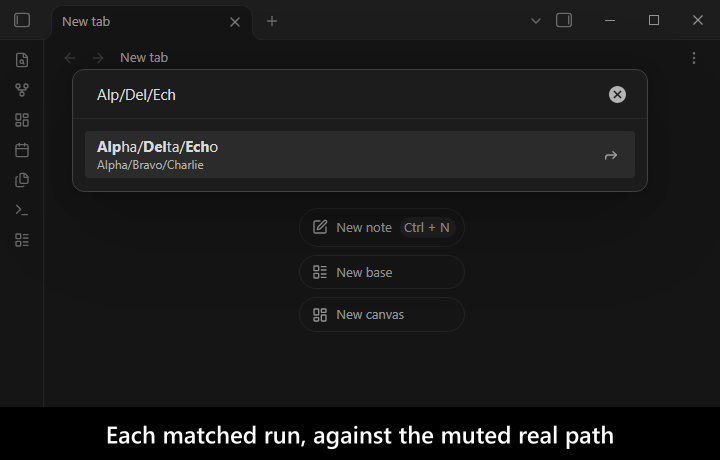
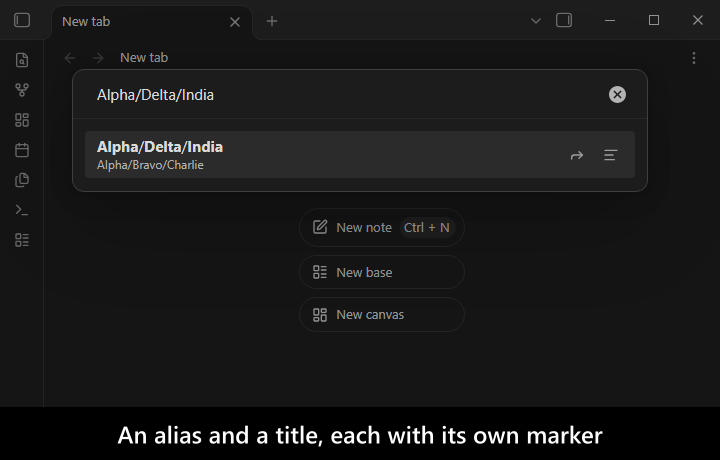
chore(screenshots): keep five desktop frames, matching the directory listing
The community directory caps each screenshot set at 5, and its listing
already dropped the highlight close-up for the alias-and-title frame.
Drop that close-up from the capture suite, renumber the last frame to 5,
and bring the README gallery and AGENTS.md in line.

diff --git a/src/screenshots.desktop-capture.integration.test.ts b/src/screenshots.desktop-capture.integration.test.ts
@@ -68,7 +68,7 @@ const MODAL_SELECTOR = '.alias-quick-switcher-modal';
 const NOTICE_SELECTOR = '.notice';
 
 /**
- * The frontmatter property frame 6 points the plugin at, and the value the staged `Charlie` carries under
+ * The frontmatter property frame 5 points the plugin at, and the value the staged `Charlie` carries under
  * it — a name the switcher can only reach while Advanced Metadata Cache's Titles module reads that property.
  */
 const TITLE_PROPERTY_NAME = 'title';
@@ -87,9 +87,9 @@ beforeAll(async () => {
 
   vault.populate({
     'Alpha/Bravo/Bravo.md': '---\naliases:\n  - Delta\n---\n\n# Bravo\n',
-    // `title` alongside the alias, exactly as the demo vault's own `Charlie` carries both — frame 6 is the
+    // `title` alongside the alias, exactly as the demo vault's own `Charlie` carries both — frame 5 is the
     // one row that needs an alias and a property at once, and no other frame is affected by it because the
-    // setting that reads a property is off until frame 6 turns it on.
+    // setting that reads a property is off until frame 5 turns it on.
     'Alpha/Bravo/Charlie.md': '---\naliases:\n  - Echo\ntitle: India\n---\n\n# Charlie\n',
     'Alpha/Bravo/Foxtrot.md': '# Foxtrot\n',
     'Alpha/Golf/Hotel.md': '# Hotel\n',
@@ -159,20 +159,9 @@ describe('desktop frames of the matched row', () => {
     await shoot(4, 'A partial path is enough', WIDTH_IN_PIXELS, HEIGHT_IN_PIXELS);
   }, TEST_TIMEOUT_IN_MILLISECONDS);
 
-  it('5 - the highlight broken into runs, close up', async () => {
-    // The hardest case for legibility, and the one a full-segment query hides: when every segment matches
-    // whole, the entire first line is highlighted and the highlight is indistinguishable from its absence.
-    // Here each segment is matched by a fragment, so highlighted and plain text sit side by side in the
-    // same word, directly above the muted second line.
-    const rows = await openSwitcher('Alp/Del/Ech');
-
-    expect(rows.length).toBeGreaterThan(0);
-    await shoot(5, 'Each matched run, against the muted real path', CLOSE_UP_WIDTH_IN_PIXELS, CLOSE_UP_HEIGHT_IN_PIXELS);
-  }, TEST_TIMEOUT_IN_MILLISECONDS);
-
-  it('6 - an alias and a frontmatter property on one row', async () => {
+  it('5 - an alias and a frontmatter property on one row', async () => {
     // The only frame that needs a setting: Advanced Metadata Cache's Titles module is off by default, which is what
-    // frames 1-5 are taken under. Turned on here and put back afterwards, because these frames share one
+    // frames 1-4 are taken under. Turned on here and put back afterwards, because these frames share one
     // Obsidian and one settings file.
     await setTitleProperties([TITLE_PROPERTY_NAME]);
 
@@ -184,9 +173,9 @@ describe('desktop frames of the matched row', () => {
       // A weak-looking assertion that is not: nothing else in the staged vault answers to `India`, so a
       // setting that failed to apply offers no row at all rather than a differently-matched one.
       expect(rows.length).toBeGreaterThan(0);
-      // Close up, like frame 5: the markers are two small glyphs at the right edge of one row, and the
-      // whole point of the frame is telling them apart.
-      await shoot(6, 'An alias and a title, each with its own marker', CLOSE_UP_WIDTH_IN_PIXELS, CLOSE_UP_HEIGHT_IN_PIXELS);
+      // Close up: the markers are two small glyphs at the right edge of one row, and the whole point of the
+      // frame is telling them apart.
+      await shoot(5, 'An alias and a title, each with its own marker', CLOSE_UP_WIDTH_IN_PIXELS, CLOSE_UP_HEIGHT_IN_PIXELS);
     } finally {
       await setTitleProperties([]);
     }

diff --git a/AGENTS.md b/AGENTS.md
@@ -64,14 +64,15 @@ The workspace convention is that all plugins share the same architecture; intent
 
 ### The screenshot capture suites
 
-`npm run capture:screenshots` drives the switcher in a real Obsidian and writes `images/screenshots/screenshot-desktop-N.png` (six frames) and `screenshot-mobile-N.png` (five), desktop leg first because both legs share one machine. They exist because the two-line row is the one thing no assertion can settle — whether it READS as an explanation — and they double as the community-store listing shots.
+`npm run capture:screenshots` drives the switcher in a real Obsidian and writes `images/screenshots/screenshot-desktop-N.png` (five frames) and `screenshot-mobile-N.png` (five), desktop leg first because both legs share one machine. They exist because the two-line row is the one thing no assertion can settle — whether it READS as an explanation — and they double as the community-store listing shots.
 
+- **Five per leg is a ceiling, not a target.** The community directory caps each set at 5, so a sixth frame cannot reach the listing and the README would show a gallery the listing does not. A new frame replaces an existing one in the same commit. That is how the close-up of the highlight broken into runs (`Alp/Del/Ech`) left the desktop leg on 2026-10-04: the listing had already swapped it for the alias-and-title frame.
 - The suites are named `*.desktop-capture.` / `*.android-capture.` so they match **none** of the standard project globs: capturing opens a window and leaves a modal on screen to photograph it, which is not something `npm run test:integration` should ever do.
 - The mobile leg runs on the **`obsidian_screenshots`** AVD, 900x1600 at density 320 — exactly the size the store asks for, so no crop or rescale. The shared `obsidian_test` AVD cannot stand in: it is 1344x2992, and resizing it at runtime recreates the activity and with it the WebView the session is attached to.
 - **`labelScreenshot` needs `sharp`**, an optional peer of `obsidian-integration-testing`. Without it every frame fails at the caption step with `Cannot find package 'sharp'` — after the capture itself succeeded, so the failure looks unrelated to what actually went wrong.
-- **A query that matches every segment whole highlights the entire first line**, which makes the highlight indistinguishable from its absence. Frame 5 uses `Alp/Del/Ech` for that reason: partial runs put highlighted and plain text side by side in the same word.
+- **A query that matches every segment whole highlights the entire first line**, which makes the highlight indistinguishable from its absence. A frame about the highlight therefore needs a partial query such as `Alp/Del/Ech`, whose runs put highlighted and plain text side by side in the same word. No frame carries one today.
 - **Both desktop suites clear every `.notice` before each shot, after waiting for the dependency gate to open.** The integration vault enables Advanced Metadata Cache after this plugin, so the gate raises its "does nothing until" notice at startup, and the first frame used to catch it about one run in two. `beforeAll` waits until the plugin's `open` command exists, which the gate registers only once it opens, so a notice removed in `shoot()` is gone for good. Measured 2026-09-25: the first shot removed exactly that notice, and every later shot found none. Keep the wait: without it, the builtin-comparison suite's first frame (the BUILT-IN switcher) proves nothing about the gate.
-- **The LAST frame of each leg is the only one taken under a non-default setting**, and it puts it back in a `finally`. Frames desktop 1-5 and mobile 1-4 are shot with Advanced Metadata Cache's Titles module off, which is what a fresh install has; the final frame switches it on, reading `title`, so one row carries an alias marker and a property marker together — the case the two glyphs exist for, and one no default-settings frame can show. Both legs therefore stage `title: India` on `Charlie.md` alongside its `Echo` alias, mirroring the demo vault's own fixture. A frame added after it inherits whatever it left behind, so keep the restore.
+- **The LAST frame of each leg is the only one taken under a non-default setting**, and it puts it back in a `finally`. Frames desktop 1-4 and mobile 1-4 are shot with Advanced Metadata Cache's Titles module off, which is what a fresh install has; the final frame switches it on, reading `title`, so one row carries an alias marker and a property marker together — the case the two glyphs exist for, and one no default-settings frame can show. Both legs therefore stage `title: India` on `Charlie.md` alongside its `Echo` alias, mirroring the demo vault's own fixture. A frame added after it inherits whatever it left behind, so keep the restore.
 - **`labelScreenshot` draws its band across the bottom of the frame**, which on desktop is Obsidian's status bar but on a phone is the switcher's own search field — so the typed query is the one thing a mobile frame does not show in full. The rows above it are what the frame is evidence for; do not caption a mobile frame with something only the query could prove.
 - **The desktop frames ARE byte-reproducible, so a re-shoot that changes one is a real change.** Measured 2026-09-28 on `obsidian-integration-testing` 17.3.0: five back-to-back runs of the desktop leg on an unchanged tree produced identical bytes for all nine frames, the first run included. Two harness fixes made that true: the window is drawn focused whether or not Windows granted it the foreground (before, about one launch in five drew the darker unfocused title bar), and owned instances rasterize on the CPU. The CPU raster shifted every pixel outside the caption band by 1-2 levels against frames shot on 17.1.1, so the upgrade itself re-shot every desktop frame.
 - **Both desktop suites set the dark theme with `applyObsidianTheme`, never a bare `app.changeTheme`.** `changeTheme` only schedules the config save a second later, and a config reload that lands first (any watcher event on `.obsidian/app.json` or `appearance.json`) drops `theme`, so the frames come out light and overwrite the committed ones without a failure. `applyObsidianTheme` saves at once and makes `captureObsidianScreenshot` refuse a frame whose theme has since been lost. Moving onto it on 2026-09-28 left all nine frames byte-identical. The Android suite keeps `changeTheme`, because no host watcher feeds `app.json` events on a device.

diff --git a/README.md b/README.md
@@ -15,8 +15,7 @@ You gave a note an alias so you could find it by the name you actually call it, 
 <a href="https://github.com/mnaoumov/obsidian-alias-quick-switcher/blob/HEAD/images/screenshots/screenshot-desktop-2.png"><img src="images/screenshots/screenshot-desktop-2.png" alt="Alpha/Delta/Echo finds Alpha/Bravo/Charlie — and says so" width="600"></a>
 <a href="https://github.com/mnaoumov/obsidian-alias-quick-switcher/blob/HEAD/images/screenshots/screenshot-desktop-3.png"><img src="images/screenshots/screenshot-desktop-3.png" alt="A folder answers to its folder note’s alias" width="600"></a>
 <a href="https://github.com/mnaoumov/obsidian-alias-quick-switcher/blob/HEAD/images/screenshots/screenshot-desktop-4.png"><img src="images/screenshots/screenshot-desktop-4.png" alt="A partial path is enough" width="600"></a>
-<a href="https://github.com/mnaoumov/obsidian-alias-quick-switcher/blob/HEAD/images/screenshots/screenshot-desktop-5.png"><img src="images/screenshots/screenshot-desktop-5.png" alt="Each matched run, against the muted real path" width="600"></a>
-<a href="https://github.com/mnaoumov/obsidian-alias-quick-switcher/blob/HEAD/images/screenshots/screenshot-desktop-6.png"><img src="images/screenshots/screenshot-desktop-6.png" alt="An alias and a title, each with its own marker" width="600"></a>
+<a href="https://github.com/mnaoumov/obsidian-alias-quick-switcher/blob/HEAD/images/screenshots/screenshot-desktop-5.png"><img src="images/screenshots/screenshot-desktop-5.png" alt="An alias and a title, each with its own marker" width="600"></a>
 <a href="https://github.com/mnaoumov/obsidian-alias-quick-switcher/blob/HEAD/images/screenshots/screenshot-mobile-1.png"><img src="images/screenshots/screenshot-mobile-1.png" alt="Matched by name — one line, nothing to explain" width="270"></a>
 <a href="https://github.com/mnaoumov/obsidian-alias-quick-switcher/blob/HEAD/images/screenshots/screenshot-mobile-2.png"><img src="images/screenshots/screenshot-mobile-2.png" alt="Alpha/Delta/Echo finds Alpha/Bravo/Charlie — and says so" width="270"></a>
 <a href="https://github.com/mnaoumov/obsidian-alias-quick-switcher/blob/HEAD/images/screenshots/screenshot-mobile-3.png"><img src="images/screenshots/screenshot-mobile-3.png" alt="A folder answers to its folder note’s alias" width="270"></a>
